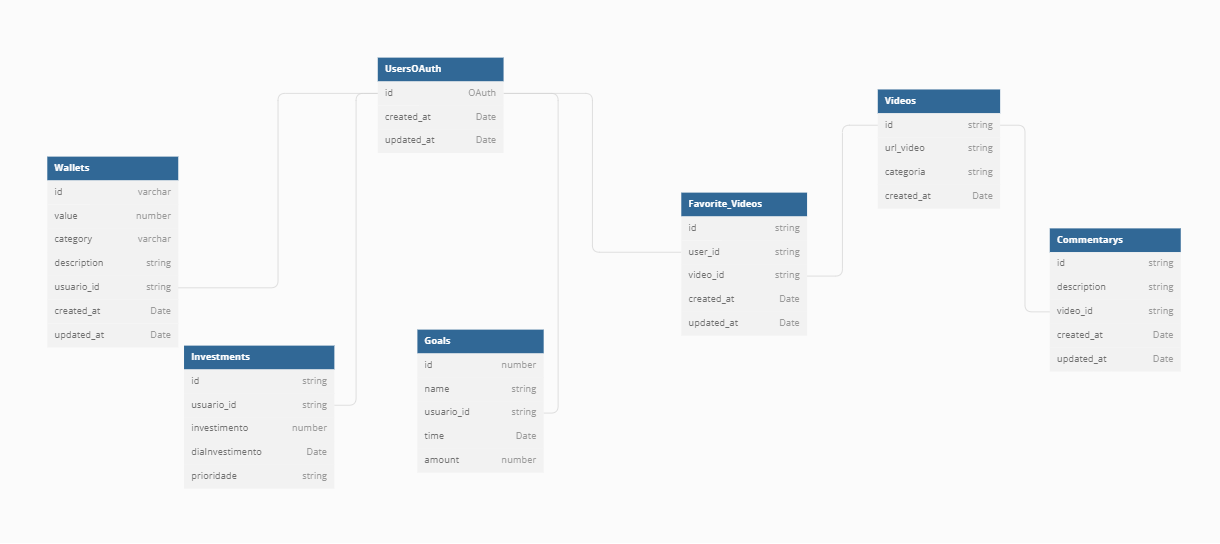
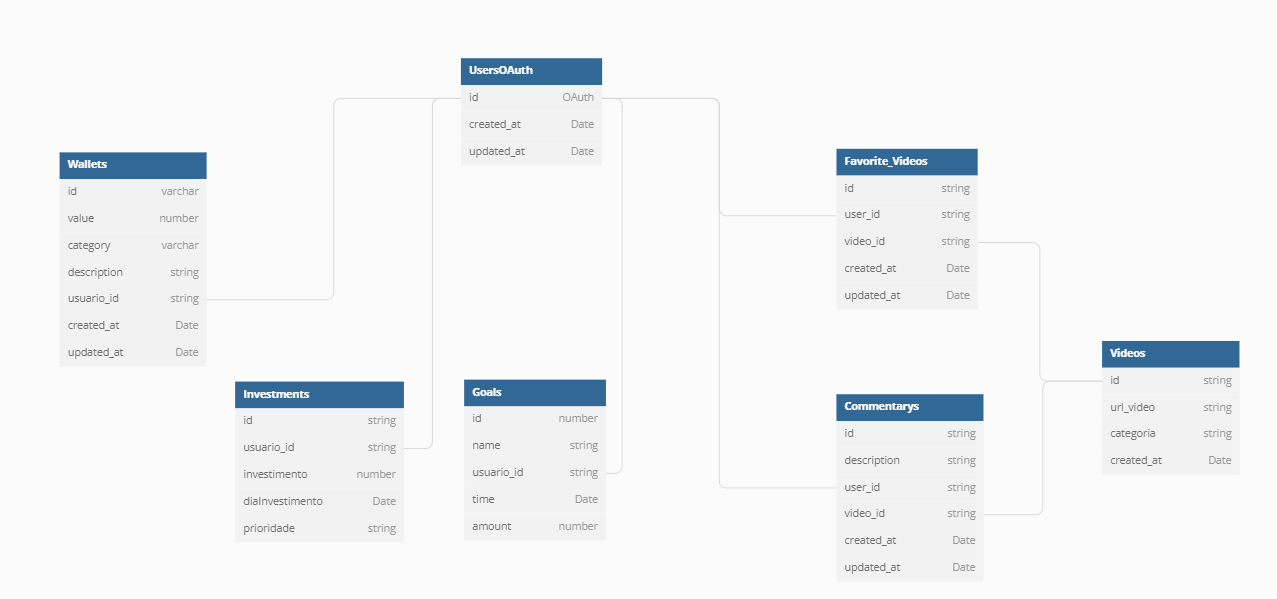
mudei tanta coisa q nem sei oq eu fiz. feature('tsyringe from inject dependences and create module commentaries complete')

diff --git a/src/modules/commentaries/services/CreateCommentaryService.ts b/src/modules/commentaries/services/CreateCommentaryService.ts
@@ -1,0 +1,27 @@
+import { inject, injectable } from "tsyringe";
+import { ICreateCommentaryDTO } from "../dtos/ICreateCommentaryDTO";
+import { ICommentaryRepository } from "../repositories/ICommentaryRepository";
+
+interface IRequest {
+  user_id: string;
+  video_id: string;
+  description: string;
+}
+
+@injectable()
+class CreateCommentaryService {
+  constructor(
+    @inject("CommentaryRepository")
+    private commentaryRepository: ICommentaryRepository
+  ) { }
+
+  async execute({ user_id, video_id, description }: IRequest): Promise<ICreateCommentaryDTO> {
+    // TODO: verificar se usuário existe
+    // TODO: verificar se video existe
+    const commentary = await this.commentaryRepository.create({ user_id, video_id, description })
+
+    return commentary
+  }
+}
+
+export { CreateCommentaryService }

diff --git a/src/modules/commentaries/infra/typeorm/repositories/CommentaryRepository.ts b/src/modules/commentaries/infra/typeorm/repositories/CommentaryRepository.ts
@@ -1,0 +1,23 @@
+import { Repository } from "typeorm"
+import { AppDataSource } from "../../../../../data-source"
+import { ICreateCommentaryDTO } from "../../../dtos/ICreateCommentaryDTO"
+import { ICommentaryRepository } from "../../../repositories/ICommentaryRepository"
+import { Commentary } from "../entities/Commentary"
+
+class CommentaryRepository implements ICommentaryRepository {
+  private repository: Repository<Commentary>
+
+  constructor() {
+    this.repository = AppDataSource.getRepository(Commentary)
+  }
+
+  async create({ user_id, video_id, description }: ICreateCommentaryDTO): Promise<Commentary> {
+    const commentary = this.repository.create({ user_id, video_id, description })
+
+    await this.repository.save(commentary)
+
+    return commentary
+  }
+}
+
+export { CommentaryRepository }

diff --git a/src/modules/commentaries/infra/http/controller/CommentariesController.ts b/src/modules/commentaries/infra/http/controller/CommentariesController.ts
@@ -1,8 +1,18 @@
 import { Request, Response } from 'express'
+import { container } from 'tsyringe'
+import { CreateCommentaryService } from '../../../services/CreateCommentaryService'
 
 class CommentariesController {
   async create(request: Request, response: Response): Promise<void> {
+    // const { id } = request.user
+    const { video_id } = request.params
+    const { user_id, description } = request.body
 
+    const createCommentaryService = container.resolve(CreateCommentaryService)
+
+    const commentary = createCommentaryService.execute({ user_id, video_id, description })
+
+    response.status(201).json(commentary)
   }
 }
 

diff --git a/src/modules/commentaries/infra/typeorm/entities/Commentary.ts b/src/modules/commentaries/infra/typeorm/entities/Commentary.ts
@@ -1,6 +1,7 @@
 import { Column, CreateDateColumn, Entity, PrimaryColumn, UpdateDateColumn } from "typeorm";
 import { v4 as uuidV4 } from "uuid";
 
+
 @Entity('commentaries')
 class Commentary {
   @PrimaryColumn()
@@ -9,7 +10,11 @@ class Commentary {
   @Column()
   description: string;
 
-  // video_id: string;
+  @Column()
+  video_id: string; // TODO: Criar relacionamento
+
+  @Column()
+  user_id: string;  // TODO: verificar no OAUTH se o id do usuário é uma string ou number. Criar relacionamento
 
   @CreateDateColumn()
   created_at: Date;

diff --git a/src/shared/container/index.ts b/src/shared/container/index.ts
@@ -1,0 +1,8 @@
+import { container } from "tsyringe";
+import { CommentaryRepository } from "../../modules/commentaries/infra/typeorm/repositories/CommentaryRepository";
+import { ICommentaryRepository } from "../../modules/commentaries/repositories/ICommentaryRepository";
+
+container.registerSingleton<ICommentaryRepository>(
+  "CommentaryRepository",
+  CommentaryRepository
+);

diff --git a/src/modules/commentaries/infra/http/routes/commentaries.routes.ts b/src/modules/commentaries/infra/http/routes/commentaries.routes.ts
@@ -4,6 +4,6 @@ import { CommentariesController } from "../controller/CommentariesController";
 const commentariesRoute = Router();
 const commentariesController = new CommentariesController()
 
-commentariesRoute.post('/', commentariesController.create)
+commentariesRoute.post('/video/:video_id', commentariesController.create)
 
 export { commentariesRoute }

diff --git a/src/shared/infra/http/routes/index.ts b/src/shared/infra/http/routes/index.ts
@@ -1,9 +1,8 @@
 import { Router } from "express";
+import { commentariesRoute } from "../../../../modules/commentaries/infra/http/routes/commentaries.routes";
 
 const router = Router()
 
-router.get("/", (request, response) => {
-  response.send("Teste")
-})
+router.use("/commentary", commentariesRoute)
 
 export { router }

diff --git a/src/modules/commentaries/repositories/ICommentaryRepository.ts b/src/modules/commentaries/repositories/ICommentaryRepository.ts
@@ -1,0 +1,8 @@
+import { ICreateCommentaryDTO } from "../dtos/ICreateCommentaryDTO";
+
+
+interface ICommentaryRepository {
+  create({ video_id, description }: ICreateCommentaryDTO): Promise<ICreateCommentaryDTO>
+}
+
+export { ICommentaryRepository }

diff --git a/src/modules/commentaries/dtos/ICreateCommentaryDTO.ts b/src/modules/commentaries/dtos/ICreateCommentaryDTO.ts
@@ -1,0 +1,8 @@
+export interface ICreateCommentaryDTO {
+  id?: string;
+  description: string;
+  video_id: string;
+  user_id: string;
+  createdAt?: Date;
+  updatedAt?: Date;
+}

diff --git a/src/shared/infra/http/app.ts b/src/shared/infra/http/app.ts
@@ -13,6 +13,7 @@ AppDataSource.initialize()
 
 const app = express();
 
+app.use(express.json())
 app.use(router)
 
 export { app }
